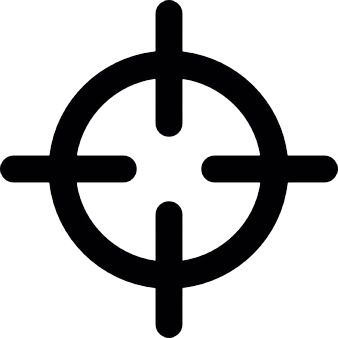
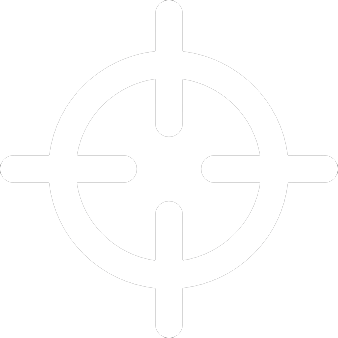
cursorimage changed and bugfixes

Changed region(s): [[0.0, 0.0, 1.0, 1.0]]

diff --git a/Balls and Me.py b/Balls and Me.py
@@ -39,6 +39,7 @@ class Game(object):
         self.bullets = []
         self.enemies = []
         self.items = []
+        self.enemy_bullets = []
         self.boss_spawn = 50
 
     def spawn_enemy(self):
@@ -134,9 +135,8 @@ class Game(object):
             screen.blit(background_game, (0, 0))
             if boss1.active:
                 boss1.draw()
-            if boss1.active:
-                for enemy_bullets in boss1.enemy_bullets:
-                    enemy_bullets.draw()
+            for enemy_bullets in game.enemy_bullets:
+                enemy_bullets.draw()
             for bullet in self.bullets:
                 bullet.draw()
             player.draw()
@@ -150,8 +150,8 @@ class Game(object):
             screen.blit(background_game, (0, 0))
             if boss1.active:
                 boss1.draw()
-                for enemy_bullet in boss1.enemy_bullets:
-                    enemy_bullet.draw()
+            for enemy_bullet in game.enemy_bullets:
+                enemy_bullet.draw()
             for bullet in self.bullets:
                 bullet.draw()
             player.draw()
@@ -169,8 +169,8 @@ class Game(object):
         player.update_cords()
         if boss1.active:
             boss1.update()
-            for enemy_bullet in boss1.enemy_bullets:
-                enemy_bullet.update()
+        for enemy_bullet in game.enemy_bullets:
+            enemy_bullet.update()
         for bullet in self.bullets:
             bullet.update_cords()
         for enemy in self.enemies:
@@ -185,7 +185,7 @@ class Game(object):
         self.clear_effects()
         self.boss_spawn = 50
         boss1.parts = []
-        boss1.enemy_bullets = []
+        game.enemy_bullets = []
         boss1.delete()
         player.x = int(w / 2)
         player.y = int(h / 2)
@@ -220,7 +220,7 @@ class Game(object):
         for enemy in self.enemies:
             if enemy.check_collision():
                 self.over_init()
-        for enemy_bullet in boss1.enemy_bullets:
+        for enemy_bullet in game.enemy_bullets:
             if enemy_bullet.check_collision():
                 self.over_init()
 
@@ -661,7 +661,6 @@ class Boss1(object):
         self.spirit = spirit
         self.active = False
         self.parts = []
-        self.enemy_bullets = []
         self.vector = Vector2(uniform(-1, 1), uniform(-1, 1))
 
     def spawn(self, num_parts, lives):
@@ -694,7 +693,7 @@ class Boss1(object):
                 vector_y = sin(radians(z))
                 vector = Vector2(vector_x, vector_y)
                 vector.normalize()
-                boss1.enemy_bullets.append(EnemyBullet(self.x, self.y, (0, 0, 255), vector))
+                game.enemy_bullets.append(EnemyBullet(self.x, self.y, (0, 0, 255), vector))
 
     def update(self):
         if time.timer_boss1_movement > 2500:
@@ -739,7 +738,7 @@ class Boss1Parts(object):
         if random() < 0.003:
             vector = Vector2(player.x - self.x, player.y - self.y)
             vector.normalize()
-            boss1.enemy_bullets.append(EnemyBullet(self.x, self.y, (0, 0, 255), vector))
+            game.enemy_bullets.append(EnemyBullet(self.x, self.y, (0, 0, 255), vector))
 
     def update(self):
         if self.check_collision(boss1):
@@ -806,7 +805,7 @@ class EnemyBullet(object):
 
     def delete(self):
         try:
-            boss1.enemy_bullets.remove(self)
+            game.enemy_bullets.remove(self)
         except:
             pass
 
